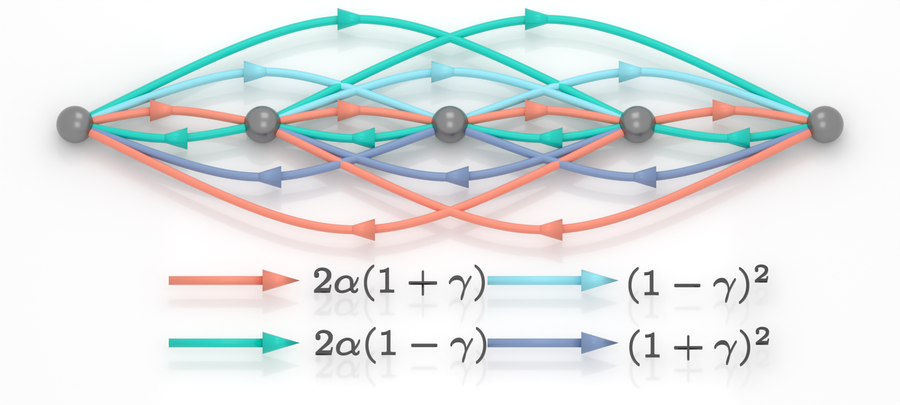
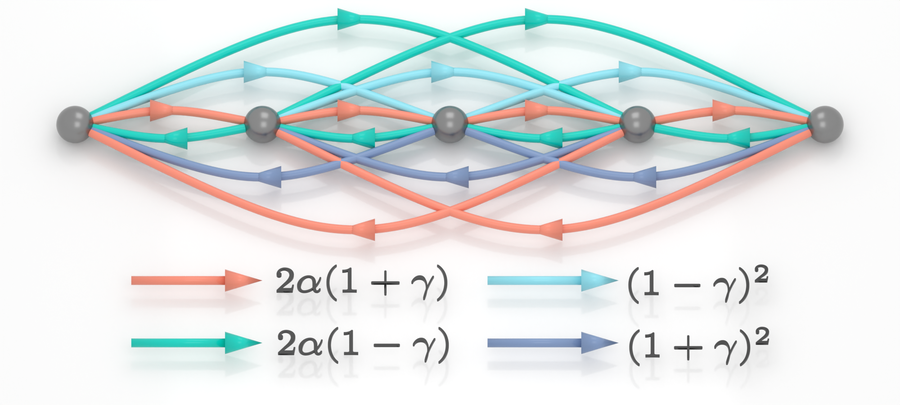
improve 1D_range3 model legend spacing

diff --git a/main.py b/main.py
@@ -40,8 +40,8 @@ def run():
     
     # The configuration name to load (corresponds to the filename in 'configs/')
     # DO NOT add .py extension here.
-    TARGET_CONFIG = "config_1D_Range2" 
-    # TARGET_CONFIG = "config_1D_Range3" 
+    # TARGET_CONFIG = "config_1D_Range2" 
+    TARGET_CONFIG = "config_1D_Range3" 
     # TARGET_CONFIG = "config_2D_Reciprocal" 
     # TARGET_CONFIG = "config_3D_Reciprocal" 
     

diff --git a/configs/config_1D_Range3.py b/configs/config_1D_Range3.py
@@ -51,8 +51,10 @@ def get_rules_and_legend(materials):
     return rules, legend
 
 legend_settings = {
-    'start_pos': Vector((2.5, -5, 0)),
-    'cols': 2, 'row_spacing': 2.0, 'col_spacing': 8.5, 'line_length': 3.0
+    'start_pos': Vector((1.5, -5, 0)),
+    'cols': 2, 
+    'row_spacing': 2.0, 
+    'col_spacing': 9.5, 'line_length': 3.0
 }
 output_res = (2000, 900)
 output_name = "1D_Range3"
